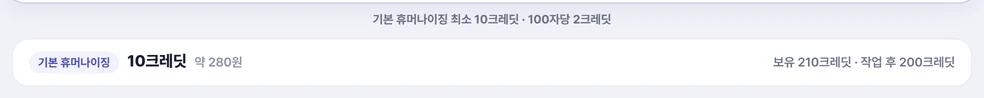
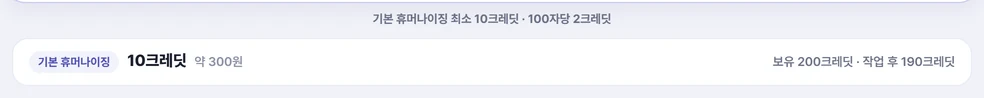
fix(pricing): set starter event bonus to zero

Changed region(s): [[0.3659, 0.1224, 0.6402, 0.2449], [0.0305, 0.551, 0.2439, 0.7041], [0.7622, 0.551, 0.9756, 0.7041]]

diff --git a/pages/pricing.html b/pages/pricing.html
@@ -19,13 +19,13 @@
      <p id="gpPlanListHint">일반 요금제 3종은 바로 충전, 대용량 요금제 2종은 학기 단위로 넉넉히 준비해요. 작은 화면에서는 옆으로 밀어 확인해요.</p>
     </div>
     <div class="gp-plan-tabs" role="tablist" aria-label="요금제 구분">
-     <button type="button" role="tab" id="gpPlanTabRegular" class="gp-plan-tab" aria-selected="true" aria-controls="gpPlanList" data-plan-group="regular" onclick="gpPlanGroup('regular')">일반 요금제 <small>5,900원부터</small></button>
-     <button type="button" role="tab" id="gpPlanTabBulk" class="gp-plan-tab" aria-selected="false" aria-controls="gpPlanListBulk" data-plan-group="bulk" onclick="gpPlanGroup('bulk')">대용량 요금제 <small>58,000원부터</small></button>
+     <button type="button" role="tab" id="gpPlanTabRegular" class="gp-plan-tab" aria-selected="true" aria-controls="gpPlanList" data-plan-group="regular" tabindex="0" onclick="gpPlanGroup('regular')">일반 요금제 <small>5,900원부터</small></button>
+     <button type="button" role="tab" id="gpPlanTabBulk" class="gp-plan-tab" aria-selected="false" aria-controls="gpPlanListBulk" data-plan-group="bulk" tabindex="-1" onclick="gpPlanGroup('bulk')">대용량 요금제 <small>58,000원부터</small></button>
     </div>
    </header>
    <aside class="gp-pricing-event" aria-label="추가 크레딧 이벤트 안내">
     <strong>9월 개강 추가 크레딧 이벤트 · 2026년 9월 30일까지 <em class="gp-event-left" id="gpCreditEventLeft" hidden></em></strong>
-    <span>상품별 상시 보너스에 기준 크레딧의 5%를 더 드려요. 이벤트가 끝나도 상품 보너스는 그대로 유지됩니다.</span>
+    <span>스타터는 이벤트 추가 0%, 스탠다드·프로·맥스·팀·기관은 기준 크레딧의 5%를 더 드려요. 이벤트가 끝나도 상품 보너스는 그대로 유지됩니다.</span>
    </aside>
   <section id="gpPricingSegmentPanel" class="gp-pricing-segment" hidden aria-live="polite">
    <div>
@@ -35,21 +35,21 @@
    <button id="gpPricingSegmentButton" type="button" onclick="gpPricingSegmentAction()">확인하기</button>
   </section>
    <div class="plan-grid gp-plan-grid" id="gpPlanList" role="tabpanel" aria-label="일반 요금제 상품 3개" aria-describedby="gpPlanListHint" data-plan-group="regular" tabindex="0">
-   <article class="plan-card" data-plan-amount="5900" data-plan-credits="210">
+   <article class="plan-card" data-plan-amount="5900" data-plan-credits="200">
    <div class="plan-hd-row"><span class="plan-tag">스타터</span></div>
    <div class="plan-price-main">5,900<span class="plan-won">원</span></div>
-    <div class="gp-plan-total" id="gpStarterTotal" data-plan-total-for="5900"><span>이번 결제 지급량</span><strong data-plan-total-value>총 210 크레딧</strong></div>
+    <div class="gp-plan-total" id="gpStarterTotal" data-plan-total-for="5900"><span>이번 결제 지급량</span><strong data-plan-total-value>총 200 크레딧</strong></div>
     <p class="gp-plan-comparison"><span>스타터 단가 대비</span><strong>기준 상품</strong></p>
-    <p class="gp-plan-efficiency" data-plan-efficiency><span>기본 1,000자 1회</span><strong>약 562원</strong></p>
+    <p class="gp-plan-efficiency" data-plan-efficiency><span>기본 1,000자 1회</span><strong>약 590원</strong></p>
     <details class="gp-plan-breakdown" open>
      <summary>지급 구성</summary>
      <ul class="plan-feats">
       <li><span>기준 크레딧</span><strong>200</strong></li>
       <li class="feat-package"><span>상시 상품 보너스</span><strong>+0</strong></li>
-      <li class="feat-event"><span>개강 이벤트 <em>(+5%)</em></span><strong>+10</strong></li>
+      <li class="feat-event"><span>개강 이벤트 <em>(0%)</em></span><strong>+0</strong></li>
      </ul>
     </details>
-    <button type="button" class="plan-btn" onclick="payToss(5900,210,'크레딧 충전','')" aria-label="기준 200크레딧, 9월 개강 이벤트 10크레딧, 총 210크레딧을 5,900원에 충전하기">충전하기</button>
+    <button type="button" class="plan-btn" onclick="payToss(5900,200,'크레딧 충전','')" aria-label="기준 200크레딧, 9월 개강 이벤트 0크레딧, 총 200크레딧을 5,900원에 충전하기">충전하기</button>
    </article>
 
    <article class="plan-card plan-popular" data-plan-amount="14500" data-plan-credits="650">
@@ -143,7 +143,7 @@
   </div>
   <p class="gp-plan-svc-note">‘기본 1,000자 1회’는 20크레딧 기준 환산값이며, 실제 차감은 글자 수·기능에 따라 달라져요.</p>
   <p class="gp-plan-compare-note">‘스타터 단가 대비’는 같은 금액을 스타터 단가(기준 크레딧 1개당 29.5원)로 샀을 때보다 상시 지급량이 얼마나 많은지 보여줘요.</p>
-  <button type="button" class="gp-plan-bulk-strip" id="gpPlanBulkStrip" onclick="gpPlanGroup('bulk')" data-regular-title="대용량 요금제 · 58,000원부터" data-regular-desc="맥스 3,000크레딧 · 팀·기관 6,200크레딧(문의 전용)" data-bulk-title="일반 요금제 · 5,900원부터" data-bulk-desc="스타터 210 · 스탠다드 650 · 프로 1,400크레딧">
+  <button type="button" class="gp-plan-bulk-strip" id="gpPlanBulkStrip" onclick="gpPlanGroup('bulk')" data-regular-title="대용량 요금제 · 58,000원부터" data-regular-desc="맥스 3,000크레딧 · 팀·기관 6,200크레딧(문의 전용)" data-bulk-title="일반 요금제 · 5,900원부터" data-bulk-desc="스타터 200 · 스탠다드 650 · 프로 1,400크레딧">
    <span class="gp-plan-bulk-strip-copy"><strong id="gpPlanBulkStripTitle">대용량 요금제 · 58,000원부터</strong><span id="gpPlanBulkStripDesc">맥스 3,000크레딧 · 팀·기관 6,200크레딧(문의 전용)</span></span>
    <span class="gp-plan-bulk-strip-cta" id="gpPlanBulkStripCta">보기 →</span>
   </button>

diff --git a/assets/js/conversion-flow.js b/assets/js/conversion-flow.js
@@ -6,13 +6,14 @@
   var MAX_PENDING_AGE = 2 * 60 * 60 * 1000;
   var CREDIT_EVENT_STARTS_AT_MS = Date.parse('2026-08-29T00:00:00+09:00');
   var CREDIT_EVENT_ENDS_AT_MS = Date.parse('2026-10-01T00:00:00+09:00');
-  var CREDIT_OFFER_POLICY_VERSION = 'credit-offer-v3-202609';
+  var CREDIT_OFFER_POLICY_VERSION = 'credit-offer-v4-202609';
   var SIGNUP_GRANT_CREDITS = 20;
   // 지급량 소스 오브 트루스는 Backend/lib/conversionOffers.js의 CREDIT_PRODUCTS다.
   // 여기·pricing.html·landing.html 표기가 어긋나면 claims-consistency 테스트가 깨진다.
-  // 상품 보너스는 상시 지급하고, 2026-09-30 결제 요청분에는 기준 크레딧의 5%를 추가 지급한다.
+  // 상품 보너스는 상시 지급한다. 2026-09-30 결제 요청분의 개강 이벤트는
+  // 스타터 0%, 스탠다드·프로·맥스·팀·기관 5%로 적용한다.
   var PLANS = [
-    { amount: 5900, paidCredits: 200, packageBonusCredits: 0, eventBonusCredits: 10, credits: 210, label: '스타터' },
+    { amount: 5900, paidCredits: 200, packageBonusCredits: 0, eventBonusCredits: 0, credits: 200, label: '스타터' },
     { amount: 14500, paidCredits: 500, packageBonusCredits: 125, eventBonusCredits: 25, credits: 650, label: '스탠다드' },
     { amount: 29000, paidCredits: 1000, packageBonusCredits: 350, eventBonusCredits: 50, credits: 1400, label: '프로' },
     { amount: 58000, paidCredits: 2000, packageBonusCredits: 900, eventBonusCredits: 100, credits: 3000, label: '맥스' }
@@ -115,10 +116,12 @@
       var packageBonus = offer.packageBonusCredits == null
         ? plan.packageBonusCredits
         : number(offer.packageBonusCredits);
-      var eventBonus = eventDeclaredInactive ? 0 : number(offer.eventBonusCredits);
+      // v4에서 스타터는 이벤트 대상이 아니다. 전환 중 구형 v3 응답이 캐시에 남아도
+      // 5,900원 오퍼에 구형 이벤트 보너스가 다시 보이지 않도록 클라이언트 미러에서도 고정한다.
+      var eventBonus = plan.amount === 5900 || eventDeclaredInactive ? 0 : number(offer.eventBonusCredits);
       var computedTotal = paid + packageBonus + eventBonus;
       var total = number(offer.totalCredits || offer.totalGrantedCredits || offer.credits) || computedTotal;
-      if (eventDeclaredInactive) total = paid + packageBonus;
+      if (plan.amount === 5900 || eventDeclaredInactive) total = paid + packageBonus;
       return {
         amount: plan.amount,
         paidCredits: paid,
@@ -743,7 +746,11 @@
       }
       var eventRow = card.querySelector('.feat-event');
       if (eventRow) {
-        eventRow.hidden = plan.eventBonusCredits <= 0;
+        // 행사 기간에는 스타터의 0%도 명시한다. 행사가 끝나면 모든 이벤트 행을 함께 숨긴다.
+        eventRow.hidden = !anyEvent;
+        var eventRate = eventRow.querySelector('em');
+        var eventPercent = plan.paidCredits > 0 ? Math.round(plan.eventBonusCredits * 100 / plan.paidCredits) : 0;
+        if (eventRate) eventRate.textContent = '(' + (eventPercent > 0 ? '+' : '') + eventPercent + '%)';
         var eventStrong = eventRow.querySelector('strong');
         if (eventStrong) eventStrong.textContent = '+' + format(plan.eventBonusCredits);
       }
@@ -755,7 +762,7 @@
         button.setAttribute('onclick', "payToss(" + plan.amount + ',' + plan.credits + ",'크레딧 충전','')");
         var parts = ['기준 ' + format(plan.paidCredits) + '크레딧'];
         if (plan.packageBonusCredits > 0) parts.push('상품 보너스 ' + format(plan.packageBonusCredits) + '크레딧');
-        if (plan.eventBonusCredits > 0) parts.push('개강 이벤트 ' + format(plan.eventBonusCredits) + '크레딧');
+        if (anyEvent) parts.push('개강 이벤트 ' + format(plan.eventBonusCredits) + '크레딧');
         button.setAttribute('aria-label', parts.join(', ') + ', 총 ' + format(plan.credits) + '크레딧을 ' + format(plan.amount) + '원에 충전하기');
       }
     });
@@ -1059,7 +1066,7 @@
       balance: balances[segment] == null ? 0 : balances[segment],
       paidOrderCount: segment.indexOf('returning') === 0 ? 3 : 0,
       experiment: { key: 'credit_event_20260930', variant: 'all_users' },
-      starterOffer: { amount: 5900, paidCredits: 200, packageBonusCredits: 0, eventBonusCredits: 10, totalCredits: 210 },
+      starterOffer: { amount: 5900, paidCredits: 200, packageBonusCredits: 0, eventBonusCredits: 0, totalCredits: 200 },
       lastPackage: segment === 'returning_low_balance' ? { amount: 14500, credits: 650 } : null
     };
   }
@@ -1274,7 +1281,7 @@
       balance: 4,
       paidOrderCount: 0,
       experiment: { key: 'credit_event_20260930', variant: 'all_users' },
-      starterOffer: { amount: 5900, paidCredits: 200, packageBonusCredits: 0, eventBonusCredits: 10, totalCredits: 210 },
+      starterOffer: { amount: 5900, paidCredits: 200, packageBonusCredits: 0, eventBonusCredits: 0, totalCredits: 200 },
       lastPackage: null
     };
     var previewPending = { action: 'main_analysis', source: 'local_preview' };
@@ -1283,7 +1290,7 @@
       pending: previewPending,
       context: previewContext,
       plan: PLANS[0],
-      totalCredits: 210
+      totalCredits: 200
     };
     renderModal(previewContext);
     var modal = byId('gpCreditCheckoutModal');

diff --git a/assets/js/app-module.js b/assets/js/app-module.js
@@ -2428,7 +2428,7 @@ const NOTICE_BASE_ITEMS = [
   highlightLabel: '신규 · 요금제',
   date: '2026.09.03',
   views: 0,
-  body: '충전 상품을 일반 요금제 3종과 대용량 요금제 2종으로 나누고, 시작 상품을 5,900원 200크레딧으로 바꿨어요.\n\n적용 시점\n2026년 9월 3일부터 새로 결제하는 주문에 적용해요.\n\n일반 요금제\n• 스타터: 5,900원 · 기준 200크레딧\n• 스탠다드: 14,500원 · 기준 500크레딧 + 상시 보너스 125크레딧\n• 프로: 29,000원 · 기준 1,000크레딧 + 상시 보너스 350크레딧\n\n대용량 요금제\n• 맥스: 58,000원 · 기준 2,000크레딧 + 상시 보너스 900크레딧\n• 팀·기관: 116,000원 · 기준 4,000크레딧 + 상시 보너스 2,000크레딧 · 문의 후 결제 방법을 안내해요\n\n종료되는 상품\n2,900원 스타터와 8,700원 라이트는 새 결제를 받지 않아요. 이미 결제한 크레딧은 그대로 남아 있고 유효기간 없이 사용할 수 있어요.\n\n크레딧 단가\n스타터의 기준 크레딧 단가는 이전과 같은 29원대예요. 2026년 9월 30일까지는 개강 이벤트로 기준 크레딧의 5%를 더 드려요.'
+  body: '충전 상품을 일반 요금제 3종과 대용량 요금제 2종으로 나누고, 시작 상품을 5,900원 200크레딧으로 바꿨어요.\n\n적용 시점\n2026년 9월 3일부터 새로 결제하는 주문에 적용해요.\n\n일반 요금제\n• 스타터: 5,900원 · 기준 200크레딧 · 개강 이벤트 0% · 총 200크레딧\n• 스탠다드: 14,500원 · 기준 500크레딧 + 상시 보너스 125크레딧\n• 프로: 29,000원 · 기준 1,000크레딧 + 상시 보너스 350크레딧\n\n대용량 요금제\n• 맥스: 58,000원 · 기준 2,000크레딧 + 상시 보너스 900크레딧\n• 팀·기관: 116,000원 · 기준 4,000크레딧 + 상시 보너스 2,000크레딧 · 문의 후 결제 방법을 안내해요\n\n종료되는 상품\n2,900원 스타터와 8,700원 라이트는 새 결제를 받지 않아요. 이미 결제한 크레딧은 그대로 남아 있고 유효기간 없이 사용할 수 있어요.\n\n크레딧 단가\n스타터의 기준 크레딧 단가는 이전과 같은 29원대이며 개강 이벤트 추가는 0%예요. 2026년 9월 30일까지 스탠다드·프로·맥스·팀·기관에는 기준 크레딧의 5%를 더 드려요.'
  },
  {
   id: 'advanced-credit-steps-20260902',
@@ -2447,7 +2447,7 @@ const NOTICE_BASE_ITEMS = [
   highlightLabel: '필수 · 크레딧 지급 기준',
   date: '2026.09.03',
   views: 0,
-  body: '현재 적용 중인 크레딧 지급 기준이에요.\n\n상시 상품 보너스\n스탠다드·프로·맥스·팀·기관은 결제할 때 상품별 보너스를 함께 받아요. 9월 개강 이벤트가 끝난 뒤에도 계속 지급됩니다.\n\n9월 개강 추가 크레딧 이벤트\n2026년 9월 30일 23시 59분(한국 시간)까지 결제 확인 요청이 서버에 접수된 주문에는 기준 크레딧의 5%를 추가로 드려요.\n\n상품별 지급 구성 (기준 + 상시 보너스 + 개강 이벤트 = 총 지급량)\n• 스타터: 200 + 0 + 10 = 총 210크레딧\n• 스탠다드: 500 + 125 + 25 = 총 650크레딧\n• 프로: 1,000 + 350 + 50 = 총 1,400크레딧\n• 맥스: 2,000 + 900 + 100 = 총 3,000크레딧\n• 팀·기관(문의 전용): 4,000 + 2,000 + 200 = 총 6,200크레딧\n\n유효기간\n기준 크레딧과 상품·이벤트로 받은 추가 크레딧은 모두 유효기간 없이 사용할 수 있어요.'
+  body: '현재 적용 중인 크레딧 지급 기준이에요.\n\n상시 상품 보너스\n스탠다드·프로·맥스·팀·기관은 결제할 때 상품별 보너스를 함께 받아요. 9월 개강 이벤트가 끝난 뒤에도 계속 지급됩니다.\n\n9월 개강 추가 크레딧 이벤트\n2026년 9월 30일 23시 59분(한국 시간)까지 결제 확인 요청이 서버에 접수된 주문 중 스탠다드·프로·맥스·팀·기관에는 기준 크레딧의 5%를 추가로 드려요. 스타터의 이벤트 추가는 0%예요.\n\n상품별 지급 구성 (기준 + 상시 보너스 + 개강 이벤트 = 총 지급량)\n• 스타터: 200 + 0 + 0 = 총 200크레딧\n• 스탠다드: 500 + 125 + 25 = 총 650크레딧\n• 프로: 1,000 + 350 + 50 = 총 1,400크레딧\n• 맥스: 2,000 + 900 + 100 = 총 3,000크레딧\n• 팀·기관(문의 전용): 4,000 + 2,000 + 200 = 총 6,200크레딧\n\n유효기간\n기준 크레딧과 상품·이벤트로 받은 추가 크레딧은 모두 유효기간 없이 사용할 수 있어요.'
  },
  {
   id: 'refund-standard-20260830',

diff --git a/pages/landing.html b/pages/landing.html
@@ -2,7 +2,7 @@
 
   <!-- 0. 공지 바 -->
   <div class="gp-lp-notice">
-    <span>요금제를 새로 정리했어요 — <b>5,900원 스타터 200크레딧</b>부터, 9월 30일까지 개강 이벤트 +5%</span>
+    <span>요금제를 새로 정리했어요 — <b>5,900원 스타터 200크레딧</b>, 상위 상품은 9월 30일까지 개강 이벤트 +5%</span>
     <button type="button" onclick="gpLandingEnterApp('pricing','notice_pricing_tiers')">요금제 보기 →</button>
   </div>
 
@@ -201,7 +201,7 @@
         <div class="gp-lp-mini-ba">
           <span class="b">1,000자 후기</span>
           <i aria-hidden="true">→</i>
-          <span class="a">20크레딧 · 약 560원</span>
+          <span class="a">20크레딧 · 약 590원</span>
         </div>
         <button type="button" class="gp-lp-ghost" onclick="gpLandingStart('moment_blog')">후기 다듬어 보기</button>
       </div>
@@ -225,7 +225,7 @@
       </article>
       <article>
         <div class="gp-lp-trust-ui" aria-hidden="true">
-          <span class="tcost"><i>기본 휴머나이징</i><b>20크레딧</b><em>약 560원 · 보유 210</em></span>
+          <span class="tcost"><i>기본 휴머나이징</i><b>20크레딧</b><em>약 590원 · 보유 200</em></span>
         </div>
         <h3>비용을 먼저 알려드려요</h3>
         <p>붙여넣는 순간 이 글에 드는 크레딧을 계산해요. 시작 전에 언제든 그만둘 수 있어요.</p>
@@ -250,10 +250,10 @@
           <button type="button" class="gp-lp-primary" onclick="gpLandingStart('pricing_cta')">가입하고 20크레딧 받기</button>
           <button type="button" class="gp-lp-ghost lg" onclick="gpLandingEnterApp('pricing','pricing_detail')">요금 자세히 보기</button>
         </div>
-        <p class="gp-lp-note" id="lpCreditEvent"><strong>9월 개강 추가 크레딧 이벤트 · 2026년 9월 30일까지</strong><br>상품별 상시 보너스에 기준 크레딧의 5%를 더 드려요. 이벤트가 끝나도 상품 보너스는 그대로 유지됩니다.</p>
+        <p class="gp-lp-note" id="lpCreditEvent"><strong>9월 개강 추가 크레딧 이벤트 · 2026년 9월 30일까지</strong><br>스타터는 이벤트 추가 0%, 스탠다드·프로·맥스·팀·기관은 기준 크레딧의 5%를 더 드려요. 이벤트가 끝나도 상품 보너스는 그대로 유지됩니다.</p>
       </div>
       <div class="gp-lp-plans">
-        <div class="gp-lp-plan" data-paid-credits="200" data-package-credits="0" data-event-credits="10"><b>5,900원</b><span>총 210크레딧</span><em>스타터 · 비교 기준 상품</em></div>
+        <div class="gp-lp-plan" data-paid-credits="200" data-package-credits="0" data-event-credits="0"><b>5,900원</b><span>총 200크레딧</span><em>스타터 · 개강 이벤트 0%</em></div>
         <div class="gp-lp-plan is-popular" data-paid-credits="500" data-package-credits="125" data-event-credits="25"><i>가성비 추천</i><b>14,500원</b><span>총 650크레딧</span><em>스탠다드 · 스타터 단가보다 133크레딧 더</em></div>
         <div class="gp-lp-plan" data-paid-credits="1000" data-package-credits="350" data-event-credits="50"><b>29,000원</b><span>총 1,400크레딧</span><em>프로 · 스타터 단가보다 367크레딧 더</em></div>
         <div class="gp-lp-plan is-bulk" data-paid-credits="2000" data-package-credits="900" data-event-credits="100"><i>대용량</i><b>58,000원</b><span>총 3,000크레딧</span><em>맥스 · 스타터 단가보다 934크레딧 더</em></div>

diff --git a/pages/guide.html b/pages/guide.html
@@ -124,7 +124,7 @@
     <p>시작 화면에서 실제 글자 수 기준 예상 비용을 바로 확인할 수 있어요.</p>
    </div>
    <figure class="gp-guide-shot is-wide">
-    <div class="gp-guide-shot-view"><img src="/assets/img/guide/credit-estimate.webp" alt="입력창 아래의 예상 비용 줄. 왼쪽에 기본 휴머나이징 10크레딧 약 280원, 오른쪽에 보유 210크레딧 · 작업 후 200크레딧이 표시돼 있다." width="984" height="98" loading="lazy" decoding="async"></div>
+    <div class="gp-guide-shot-view"><img src="/assets/img/guide/credit-estimate.webp" alt="입력창 아래의 예상 비용 줄. 왼쪽에 기본 휴머나이징 10크레딧 약 300원, 오른쪽에 보유 200크레딧 · 작업 후 190크레딧이 표시돼 있다." width="984" height="98" loading="lazy" decoding="async"></div>
     <figcaption>글을 붙여넣으면 입력창 아래에 이 줄이 나타나요. 이 작업에 드는 크레딧과 끝난 뒤 남을 잔액을 같이 보여줘요.</figcaption>
    </figure>
    <div class="gp-guide-credit-layout">
@@ -145,7 +145,7 @@
      <ul>
       <li>가입 시 받은 20크레딧으로 600자 글을 AI 감지한 뒤 기본 휴머나이징까지 이어서 실행할 수 있어요.</li>
       <li>스탠다드 이상 상품에는 상시 상품 보너스가 포함되고, 2026년 9월 30일까지 결제 요청분에는 기준 크레딧의 5%를 이벤트 크레딧으로 더 드려요.</li>
-      <li>스타터는 5,900원에 기준 200크레딧과 이벤트 10크레딧을 더해 총 210크레딧이며, 기본 휴머나이징 500자 기준 약 21회 사용할 수 있어요. 충전 상품은 일반 요금제 3종(스타터·스탠다드·프로)과 대용량 요금제 2종(맥스·팀·기관)으로 나뉘고, 팀·기관 상품은 문의 후 결제 방법을 안내해요.</li>
+      <li>스타터는 5,900원에 기준 200크레딧을 지급하고 개강 이벤트는 0%라 총 200크레딧이며, 기본 휴머나이징 500자 기준 약 20회 사용할 수 있어요. 다른 상품은 2026년 9월 30일까지 기준 크레딧의 5%를 이벤트 크레딧으로 더 드려요. 충전 상품은 일반 요금제 3종(스타터·스탠다드·프로)과 대용량 요금제 2종(맥스·팀·기관)으로 나뉘고, 팀·기관 상품은 문의 후 결제 방법을 안내해요.</li>
       <li>기준 크레딧과 상품·이벤트 추가 크레딧은 모두 유효기간 없이 사용할 수 있고, 전달 가능한 결과를 만들지 못하면 차감하지 않아요.</li>
       <li>일반 청약철회는 서면 또는 전자문서로 계약 내용을 받은 날부터 7일 이내 신청할 수 있어요. 크레딧 이용 가능 시점이 더 늦으면 그날부터 계산합니다. 크레딧은 주문에 귀속되지 않은 기존 잔액, 오래된 주문 순으로 사용하고 각 주문 안에서는 기준 크레딧을 먼저 사용해요. 환불액은 신청 접수 시점에 남은 기준 크레딧에 따라 계산하며, 같은 주문의 남은 추가 크레딧은 함께 회수해요. 7일 이후에도 관계 법령상 환불·취소 사유는 별도로 확인합니다.</li>
      </ul>

diff --git a/pages/admin.html b/pages/admin.html
@@ -175,10 +175,10 @@
             <span class="gp-admin-patch-state is-live">운영 반영</span>
           </summary>
           <ul>
-            <li><span class="gp-admin-patch-area billing">상품 구성</span><span>2,900원 스타터와 8,700원 라이트의 새 결제를 종료하고 5,900원 스타터(기준 200크레딧, 크레딧당 29.5원)를 시작 상품으로 둡니다. 일반 요금제는 스타터·스탠다드·프로 3종, 대용량 요금제는 맥스와 팀·기관(116,000원 · 기준 4,000 + 상시 보너스 2,000크레딧 · 문의 전용) 2종입니다.</span></li>
+            <li><span class="gp-admin-patch-area billing">상품 구성</span><span>2,900원 스타터와 8,700원 라이트의 새 결제를 종료하고 5,900원 스타터(기준 200크레딧, 개강 이벤트 0%, 총 200크레딧, 크레딧당 29.5원)를 시작 상품으로 둡니다. 일반 요금제는 스타터·스탠다드·프로 3종, 대용량 요금제는 맥스와 팀·기관(116,000원 · 기준 4,000 + 상시 보너스 2,000크레딧 · 문의 전용) 2종입니다.</span></li>
             <li><span class="gp-admin-patch-area frontend">구매 화면</span><span>가격표를 일반/대용량 탭으로 나누고 스탠다드를 가운데에서 추천으로 강조합니다. 카드 아래 띠 배너가 반대쪽 묶음의 시작 가격을 항상 보여 주고, 팀·기관 카드는 결제 대신 고객센터 문의로 연결합니다.</span></li>
             <li><span class="gp-admin-patch-area billing">비교 기준</span><span>상위 상품의 분할 구매 비교를 스타터 회수 대신 ‘스타터 단가 대비 상시 지급량 차이’로 바꿨습니다(스탠다드 +133, 프로 +367, 맥스 +934, 팀·기관 +2,068크레딧).</span></li>
-            <li><span class="gp-admin-patch-area billing">서버 카탈로그</span><span>정책 버전 credit-offer-v3-202609. 5,900원 상품을 추가하고 2,900·8,700원은 카탈로그에 남긴 채 새 결제 진입만 차단했습니다(환불·과거 주문 해석 유지). 스타터→스탠다드 차액 업그레이드는 8,600원·300크레딧으로 재계산했습니다(운영 비활성 유지).</span></li>
+            <li><span class="gp-admin-patch-area billing">서버 카탈로그</span><span>정책 버전 credit-offer-v4-202609. 5,900원 스타터의 이벤트 추가를 0%로 고정하고, 다른 현행 상품의 개강 이벤트 +5%는 유지합니다. 2,900·8,700원은 카탈로그에 남긴 채 새 결제 진입만 차단했습니다(환불·과거 주문 해석 유지). 스타터→스탠다드 차액 업그레이드는 8,600원·300크레딧으로 재계산했습니다(운영 비활성 유지).</span></li>
             <li><span class="gp-admin-patch-area observe">측정</span><span>매출 리포트에 상품별 매출·환불 분해와 첫 구매 건수를 추가하고, 주문·구매 이벤트에 첫 구매 플래그를 실었습니다. 판정 지표는 가격 페이지 방문자당 30일 순매출·첫 구매 전환율·상품별 환불율·스탠다드 비중입니다.</span></li>
           </ul>
         </details>

diff --git a/assets/js/app-main.js b/assets/js/app-main.js
@@ -1861,7 +1861,7 @@ function maintenancePreviewQuery() {
 }
 
 const CREDIT_GRANT_POLICY_VERSION = 'credit-grant-base-v1';
-const CREDIT_OFFER_POLICY_VERSION = 'credit-offer-v3-202609';
+const CREDIT_OFFER_POLICY_VERSION = 'credit-offer-v4-202609';
 const CREDIT_EVENT_LOCAL_START_MS = Date.parse('2026-08-29T00:00:00+09:00');
 const CREDIT_EVENT_LOCAL_END_MS = Date.parse('2026-10-01T00:00:00+09:00');
 function localCreditEventProduct(paidCredits, packageBonusCredits, configuredEventBonusCredits) {
@@ -1878,7 +1878,7 @@ function localCreditEventProduct(paidCredits, packageBonusCredits, configuredEve
  };
 }
 const CREDIT_EVENT_PRODUCTS = {
- 5900: localCreditEventProduct(200, 0, 10),
+ 5900: localCreditEventProduct(200, 0, 0),
  14500: localCreditEventProduct(500, 125, 25),
  29000: localCreditEventProduct(1000, 350, 50),
  58000: localCreditEventProduct(2000, 900, 100)
@@ -1912,14 +1912,18 @@ async function payToss(amount, credits, name, plan, checkoutOptions) {
     if (currentOffer && Number(currentOffer.paidCredits) > 0) {
      const paidCredits = Number(currentOffer.paidCredits);
      const packageBonusCredits = Math.max(0, Number(currentOffer.packageBonusCredits) || 0);
-     const eventBonusCredits = Math.max(0, Number(currentOffer.eventBonusCredits) || 0);
-     const offeredTotal = Number(currentOffer.credits) || Number(currentOffer.totalGrantedCredits) || 0;
+     // v4에서 스타터는 개강 이벤트 0%다. 전환 중 구형 응답이 남아도 결제 확인값은 200으로 고정한다.
+     const eventBonusCredits = Number(amount) === 5900 ? 0 : Math.max(0, Number(currentOffer.eventBonusCredits) || 0);
+     const computedTotal = paidCredits + packageBonusCredits + eventBonusCredits;
+     const offeredTotal = Number(amount) === 5900
+      ? computedTotal
+      : (Number(currentOffer.credits) || Number(currentOffer.totalGrantedCredits) || 0);
      grant = {
       paidCredits,
       packageBonusCredits,
       eventBonusCredits,
       bonusCredits: packageBonusCredits + eventBonusCredits,
-      totalGrantedCredits: Math.max(paidCredits + packageBonusCredits + eventBonusCredits, offeredTotal),
+      totalGrantedCredits: Math.max(computedTotal, offeredTotal),
       offerPolicyVersion: String(currentOffer.offerPolicyVersion || CREDIT_OFFER_POLICY_VERSION)
      };
     }

diff --git a/pages/faq.html b/pages/faq.html
@@ -77,7 +77,7 @@
     <div class="faq-list">
      <div class="faq-item">
       <button type="button" class="faq-q" id="faq-q-credit" aria-expanded="false" aria-controls="faq-a-credit" onclick="toggleFaq(this)"><span>크레딧은 어떻게 충전하나요?</span><span class="faq-plus" aria-hidden="true"></span></button>
-       <div class="faq-a" id="faq-a-credit" role="region" aria-labelledby="faq-q-credit" aria-hidden="true">충전하기 메뉴에서 원하는 상품을 선택해 토스·카카오페이로 결제하면 즉시 충전돼요. 상품별 상시 보너스에 더해 2026년 9월 30일까지 결제 요청분에는 기준 크레딧의 5%를 이벤트 크레딧으로 추가 지급해요. AI 감지는 100자당 1크레딧, 기본 휴머나이징은 최소 10크레딧 · 100자당 2크레딧 기준이에요.</div>
+       <div class="faq-a" id="faq-a-credit" role="region" aria-labelledby="faq-q-credit" aria-hidden="true">충전하기 메뉴에서 원하는 상품을 선택해 토스·카카오페이로 결제하면 즉시 충전돼요. 스타터는 개강 이벤트 추가가 0%이며, 스탠다드·프로·맥스·팀·기관은 2026년 9월 30일까지 결제 요청분에 기준 크레딧의 5%를 이벤트 크레딧으로 추가 지급해요. AI 감지는 100자당 1크레딧, 기본 휴머나이징은 최소 10크레딧 · 100자당 2크레딧 기준이에요.</div>
      </div>
      <div class="faq-item">
       <button type="button" class="faq-q" id="faq-q-expiry" aria-expanded="false" aria-controls="faq-a-expiry" onclick="toggleFaq(this)"><span>충전한 크레딧은 소멸되나요?</span><span class="faq-plus" aria-hidden="true"></span></button>

diff --git a/assets/js/evasion-flow.js b/assets/js/evasion-flow.js
@@ -65,7 +65,7 @@
   // 도달해야 금액을 처음 봤고, 그 지점에서 잔액이 모자라면 4단계를 투자한 뒤 막혔다.
   // 단가는 위 shortHumanizeCredit(기본 휴머나이징)·감지 100자당 1크레딧과 같은 소스를 쓴다.
   var DETECT_MIN_CHARS = 100;
-  var CREDIT_WON = 5900 / 210;   // 현재 스타터(5,900원) 총 지급량 기준 예상 결제금액
+  var CREDIT_WON = 5900 / 200;   // 현재 스타터(5,900원·이벤트 0%) 총 지급량 기준 예상 결제금액
   function detectCredit(len) {
     return Math.ceil((Number(len) || 0) / 100);
   }

diff --git a/scripts/capture-guide-shots.py b/scripts/capture-guide-shots.py
@@ -88,8 +88,8 @@ def open_app(browser):
 
 
 def fill_draft(page, text=DRAFT):
-    # 잔액이 모자란 화면이 잡히면 가이드가 "충전하세요"를 가르치게 된다 — 스타터(5,900원·210크레딧) 충전 후 상태로 고정한다.
-    page.evaluate("() => { window.GP_HERO_PREVIEW = true; window.UC = 210; }")
+    # 잔액이 모자란 화면이 잡히면 가이드가 "충전하세요"를 가르치게 된다 — 스타터(5,900원·200크레딧) 충전 후 상태로 고정한다.
+    page.evaluate("() => { window.GP_HERO_PREVIEW = true; window.UC = 200; }")
     page.fill("#lavInput", text)
     page.dispatch_event("#lavInput", "input")
     page.wait_for_timeout(400)
@@ -175,7 +175,7 @@ with sync_playwright() as p:
       const t = document.getElementById('lavRepParaToggle'); if (t) t.hidden = true;
       set('lavRepParaCount', '문단 4개');
       const cost = document.getElementById('lavRepGoCost');
-      if (cost) { cost.hidden = false; cost.textContent = '이동 후 기본 휴머나이징 10크레딧 · 보유 210크레딧'; }
+      if (cost) { cost.hidden = false; cost.textContent = '이동 후 기본 휴머나이징 10크레딧 · 보유 200크레딧'; }
     }""",
         PARAGRAPHS,
     )

diff --git a/PRODUCT.md b/PRODUCT.md
@@ -34,7 +34,7 @@ web
 ## Operating Context
 
 - 진입: gpkorea.ai.kr 랜딩 → 구글/카카오 로그인(감지·휴머나이징 모두 로그인 필수) → 글 붙여넣기 또는 PDF 첨부(10MB) → **AI 감지 보고서**(100자당 1크레딧) → **휴머나이징 3택 한 화면**(다듬기 · 기본 · 고급 — 처리 범위·예상 비용·예상 시간을 나란히 비교) → 결과 → 작업 기록에서 이어 쓰기, 필요 문단만 **문단 보강**(사용자 경험·사실 입력, 결과가 안 바뀌면 무차감).
-- 과금 기준(리포 근거, 2026-09-02): AI 감지 100자당 1크레딧. 기본 휴머나이징 100자당 2크레딧·최소 10. 고급은 3,000자 이하 100크레딧부터 구간별. 크레딧 상품(2026-09-03 개편, 서버 카탈로그 정책 버전 credit-offer-v3-202609): 일반 요금제 3종 5,900 / 14,500 / 29,000원(기준 200/500/1,000 + 상시 상품 보너스 0/25/35% + 9월 개강 5% 이벤트 → 총 210/650/1,400) + 대용량 요금제 2종 58,000원 맥스(기준 2,000 + 45% → 총 3,000) / 116,000원 팀·기관(기준 4,000 + 50% → 총 6,200, 문의 전용 · 결제 버튼 없음). 2,900·8,700원은 새 결제 종료(기존 잔액·환불 스냅샷은 유지). 스탠다드(14,500원)가 '가성비 추천'이며 가격표는 일반/대용량 탭 + 반대쪽 묶음 시작 가격을 보여 주는 띠 배너 구조. 상위 상품 비교는 '스타터 단가(29.5원/크레딧) 대비 상시 지급량 차이'(+133/+367/+934/+2,068). 신규 가입 무료 20크레딧, 친구 초대 시 양쪽 20크레딧. 모두 유효기간 없음.
+- 과금 기준(리포 근거, 2026-09-03): AI 감지 100자당 1크레딧. 기본 휴머나이징 100자당 2크레딧·최소 10. 고급은 3,000자 이하 100크레딧부터 구간별. 크레딧 상품(서버 카탈로그 정책 버전 credit-offer-v4-202609): 일반 요금제 3종 5,900 / 14,500 / 29,000원(기준 200/500/1,000 + 상시 상품 보너스 0/25/35% + 9월 개강 이벤트 0/5/5% → 총 200/650/1,400) + 대용량 요금제 2종 58,000원 맥스(기준 2,000 + 상시 45% + 이벤트 5% → 총 3,000) / 116,000원 팀·기관(기준 4,000 + 상시 50% + 이벤트 5% → 총 6,200, 문의 전용 · 결제 버튼 없음). 스타터는 개강 이벤트 추가가 0%이고 다른 현행 상품의 +5%는 2026년 9월 30일까지 유지합니다. 2,900·8,700원은 새 결제 종료(기존 잔액·환불 스냅샷은 유지). 스탠다드(14,500원)가 '가성비 추천'이며 가격표는 일반/대용량 탭 + 반대쪽 묶음 시작 가격을 보여 주는 띠 배너 구조. 상위 상품 비교는 '스타터 단가(29.5원/크레딧) 대비 상시 지급량 차이'(+133/+367/+934/+2,068). 신규 가입 무료 20크레딧, 친구 초대 시 양쪽 20크레딧. 모두 유효기간 없음.
 - 환불(리포 근거, 2026-08-30 개편): 7일 이내 미사용 전액, 일부 사용 시 사용분 비례, 주문별 원장, 환불 주문의 잔여 보너스 회수, 과거 주문은 구매 당시 기준. 접수는 사이트 안 고객센터로 일원화(개인 이메일 노출 금지).
 - 내 정보: 잔액·잔액 환산(글 길이 기준 감지/휴머나이징 횟수)·알림·결제 내역·사용 내역·정기구독 관리·계정 관리.
 - 안내 면: 공지사항(로컬 정본 + Firestore 병합, 필수 공지 4건 고정), 연구노트(구 블로그, /blog 주소 유지), 장르별 템플릿, 가이드, FAQ, 문의(고객센터).
